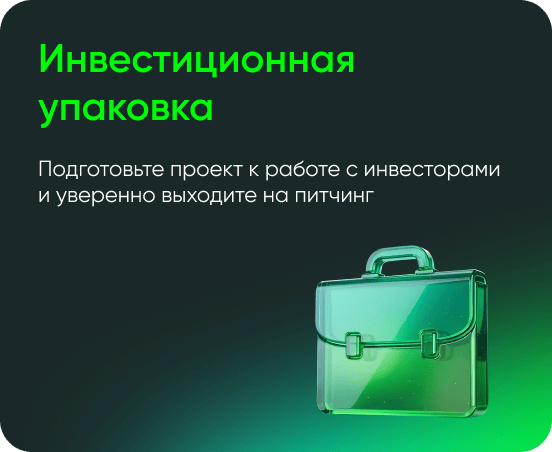
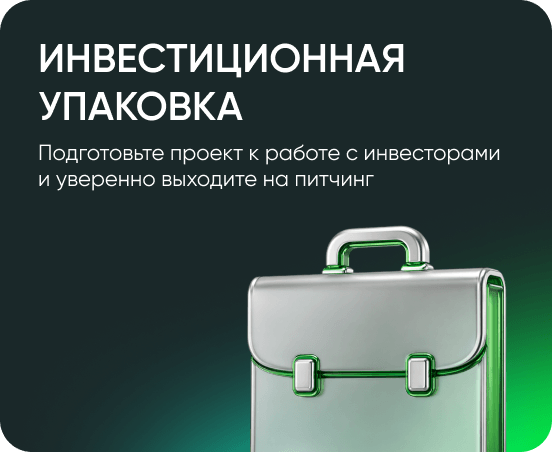
rebuild mik-347

Changed region(s): [[0.4312, 0.4956, 0.9239, 1.0], [0.0616, 0.3097, 0.9239, 0.4646], [0.0616, 0.0929, 0.7391, 0.2788]]

diff --git a/mik-347/Ваша заявка одобрена.html b/mik-347/Ваша заявка одобрена.html
@@ -102,7 +102,7 @@
                                         <tbody>
                                         <tr>
                                             <td style="width:600px;">
-                                                <img alt="Подберите меры поддержки для вашего бизнеса. Персональные рекомендации с учетом вашей компании – быстро и удобно. Нажмите здесь, чтобы воспользоваться сервисом." height="auto" src="https://cp.unisender.com/ru/user_file?resource=images&user_id=5608985&name=mik-347-hero.png" style="border:0;display:block;outline:none;text-decoration:none;height:auto;width:100%;font-size:13px;" width="600" />
+                                                <img alt="Ваша заявка одобрена. Добро пожаловать в Фонд МИК. Вы стали частью инновационной экосистемы Москвы" height="auto" src="https://cp.unisender.com/ru/user_file?resource=images&user_id=5608985&name=mik-347-hero.png" style="border:0;display:block;outline:none;text-decoration:none;height:auto;width:100%;font-size:13px;" width="600" />
                                             </td>
                                         </tr>
                                         </tbody>
@@ -140,7 +140,7 @@
                             </tr>
                             <tr>
                                 <td align="left" style="font-size:0px;word-break:break-word;">
-                                    <div style="font-family: Gilroy, Helvetica, Arial, sans-serif;font-size:16px;font-weight:400;line-height:120%;text-align:left;color:#000000;">Мы собрали для вас ключевые меры поддержки, которые будут полезны на&nbsp;разных этапах роста.</div>
+                                    <div style="font-family: Gilroy, Helvetica, Arial, sans-serif;font-size:16px;font-weight:600;line-height:120%;text-align:left;color:#000000;">Мы собрали для вас ключевые меры поддержки, которые будут полезны на&nbsp;разных этапах роста.</div>
                                 </td>
                             </tr>
                             </tbody>
@@ -168,7 +168,7 @@
                                         <tbody>
                                         <tr>
                                             <td style="width:276px;padding-bottom:12px;">
-                                                <img alt="Пилотное тестирование - Проверьте решение в реальных условиях и получите грант до 4 млн рублей" height="auto" src="https://cp.unisender.com/ru/user_file?resource=images&user_id=5608985&name=mik-347-content-img-1_1.png" style="border:0;display:block;outline:none;text-decoration:none;height:auto;width:100%;font-size:13px;" width="276" />
+                                                <img alt="Пилотное тестирование. Проверьте решение в реальных условиях и получите грант до 4 млн рублей" height="auto" src="https://cp.unisender.com/ru/user_file?resource=images&user_id=5608985&name=mik-347-content-img-1_1.png" style="border:0;display:block;outline:none;text-decoration:none;height:auto;width:100%;font-size:13px;" width="276" />
                                             </td>
                                         </tr>
                                         <tr>
@@ -199,7 +199,7 @@
                                         <tbody>
                                         <tr>
                                             <td style="width:276px;padding-bottom:12px;">
-                                                <img alt="Инвестиционная упаковка - Подготовьте проект к работе с инвесторами и уверенно выходите на питчинг" height="auto" src="https://cp.unisender.com/ru/user_file?resource=images&user_id=5608985&name=mik-347-content-img-1_2.png" style="border:0;display:block;outline:none;text-decoration:none;height:auto;width:100%;font-size:13px;" width="276" />
+                                                <img alt="Инвестиционная упаковка. Подготовьте проект к работе с инвесторами и уверенно выходите на питчинг" height="auto" src="https://cp.unisender.com/ru/user_file?resource=images&user_id=5608985&name=mik-347-content-img-1_2.png" style="border:0;display:block;outline:none;text-decoration:none;height:auto;width:100%;font-size:13px;" width="276" />
                                             </td>
                                         </tr>
                                         <tr>
@@ -380,19 +380,19 @@
             <table align="center" background="https://cp.unisender.com/ru/user_file?resource=images&user_id=5608985&name=mik-347-bg.png" border="0" cellpadding="0" cellspacing="0" role="presentation" style="background:url(https://cp.unisender.com/ru/user_file?resource=images&user_id=5608985&name=mik-347-bg.png) center top / cover repeat;background-position:center top;background-repeat:repeat;background-size:cover;width:100%;border-radius:20px;background-color:#1A2829;">
                 <tbody>
                 <tr>
-                    <td style="direction:ltr;font-size:0px;padding:0 25px 20px;">
-                        <!--[if mso | IE]><table role="presentation" border="0" cellpadding="0" cellspacing="0"><tr><td class="" style="vertical-align:top;max-width:394px;width:100%;" ><![endif]-->
-                        <div class="mj-outlook-group-fix" style="font-size:0px;text-align:left;direction:ltr;display:inline-block;vertical-align:top;max-width:394px;width:100%;">
+                    <td style="direction:ltr;font-size:0px;padding:0 25px 16px;">
+                        <!--[if mso | IE]><table role="presentation" border="0" cellpadding="0" cellspacing="0"><tr><td class="" style="vertical-align:top;max-width:382px;width:100%;" ><![endif]-->
+                        <div class="mj-outlook-group-fix" style="font-size:0px;text-align:left;direction:ltr;display:inline-block;vertical-align:top;max-width:382px;width:100%;">
                             <table border="0" cellpadding="0" cellspacing="0" role="presentation" style="vertical-align:top;" width="100%">
                                 <tbody>
                                 <tr>
-                                    <td align="left" style="font-size:0px;word-break:break-word;padding:20px 0;">
-                                        <div style="font-family: Gilroy, Helvetica, Arial, sans-serif;font-size:20px;font-weight:500;line-height:120%;text-align:left;color:#FFFFFF;max-width:315px;width:100%;">Навигация по&nbsp;мерам поддержки</div>
+                                    <td align="left" style="font-size:0px;word-break:break-word;padding:20px 0 17px;">
+                                        <div style="font-family: Gilroy, Helvetica, Arial, sans-serif;font-size:20px;font-weight:500;line-height:120%;text-align:left;color:#FFFFFF;">НАВИГАЦИЯ ПО&nbsp;МЕРАМ ПОДДЕРЖКИ</div>
                                     </td>
                                 </tr>
                                 <tr>
                                     <td align="left" style="font-size:0px;word-break:break-word;">
-                                        <div style="font-family: Gilroy, Helvetica, Arial, sans-serif;font-size:14px;font-weight:500;line-height:120%;text-align:left;color:#FFFFFF;max-width:315px;width:100%;">Не&nbsp;уверены, с&nbsp;чего начать? Воспользуйтесь сервисом навигации – он поможет подобрать меры поддержки, которые подходят именно вашей компании, с&nbsp;учетом стадии развития, отрасли и&nbsp;задач бизнеса</div>
+                                        <div style="font-family: Gilroy, Helvetica, Arial, sans-serif;font-size:14px;font-weight:400;line-height:120%;text-align:left;color:#FFFFFF;max-width:315px;width:100%;">Не&nbsp;уверены, с&nbsp;чего начать? Воспользуйтесь сервисом навигации – он поможет подобрать меры поддержки, которые подходят именно вашей компании, с&nbsp;учетом стадии развития, отрасли и&nbsp;задач бизнеса</div>
                                     </td>
                                 </tr>
                                 </tbody>
@@ -407,7 +407,7 @@
                                         <table border="0" cellpadding="0" cellspacing="0" role="presentation" style="border-collapse:collapse;border-spacing:0px;">
                                             <tbody>
                                             <tr>
-                                                <td style="width:107px;padding-top:26px;">
+                                                <td style="width:107px;padding-top:24px;">
                                                     <img alt="Декоративная картинка" height="auto" src="https://cp.unisender.com/ru/user_file?resource=images&user_id=5608985&name=mik-347-content-img-2.png" style="border:0;display:block;outline:none;text-decoration:none;height:auto;width:100%;font-size:13px;" width="107" />
                                                 </td>
                                             </tr>
